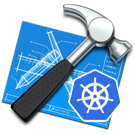
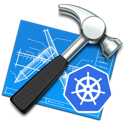
udpates

diff --git a/assets/css/style.scss b/assets/css/style.scss
@@ -3,10 +3,19 @@
 
 @import "jekyll-theme-slate";
 
+#project_tagline {
+  color: #ccc;
+  font-size: 22px;
+  font-weight: 300;
+  background: none;
+  text-shadow: #111 0px 0px 10px;
+}
+
 #cb-logo {
   display: inline-block;
-  width: 135px;
-  height: 135px;
+  width: 145px;
+  height: 145px;
+  margin-left: 20px;
   border: none;
   box-shadow: none;
   -webkit-box-shadow: none;
@@ -14,7 +23,9 @@
   margin-top: -10px;
   margin-left: auto;
   margin-right: 10px;
-  background: url(../images/cb.png);
+  background-image: url(../images/cb.png);
+  background-repeat: no-repeat;
+  background-position: 0px 0px;
 }
 
 .idstudios-logo {
@@ -33,7 +44,7 @@
 }
 
 .project-cell {
-  margin-left: 20px;
+  margin-left: 0px;
 }
 
 #header_wrap .inner {

diff --git a/_layouts/default.html b/_layouts/default.html
@@ -75,7 +75,7 @@
       </script>
     {% endif %}
 
-    <script src="{{ '/assets/js/bootstrap.min.js | relative_url }}" integrity="sha384-JZR6Spejh4U02d8jOt6vLEHfe/JQGiRRSQQxSfFWpi1MquVdAyjUar5+76PVCmYl" crossorigin="anonymous"></script>
+    <script src="/assets/js/bootstrap.min.js" integrity="sha384-JZR6Spejh4U02d8jOt6vLEHfe/JQGiRRSQQxSfFWpi1MquVdAyjUar5+76PVCmYl" crossorigin="anonymous"></script>
 
   </body>
 </html>
